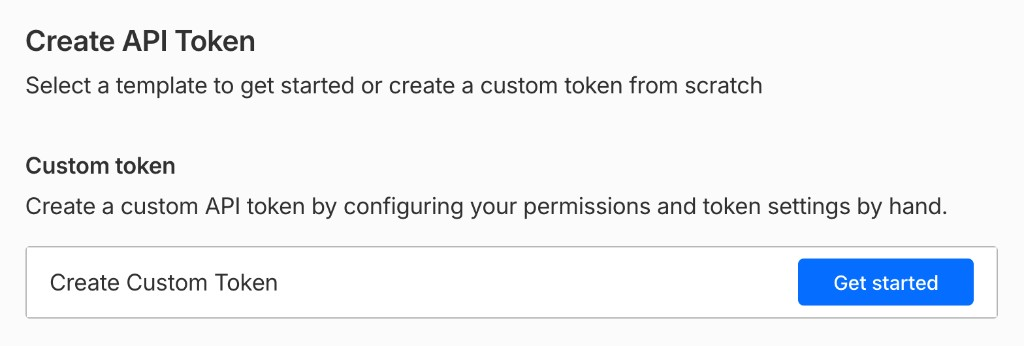
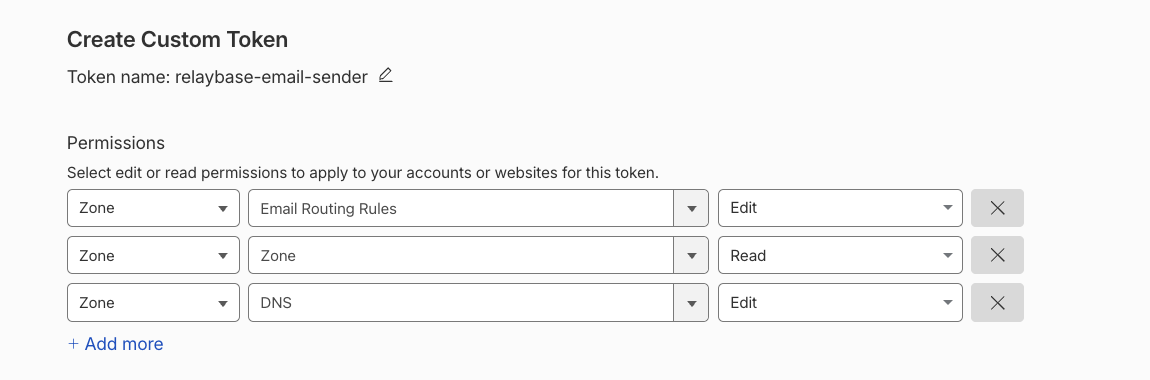
Improve email API setup guidance and token permission verification.
Clarify required Cloudflare token permissions in the enable dialog, probe Email Routing and DNS access during token verify, and surface clearer toasts when permissions are missing.

diff --git a/app/src/console/components/setup/EnableEmailApiDialog.tsx b/app/src/console/components/setup/EnableEmailApiDialog.tsx
@@ -37,22 +37,46 @@ function CreateCustomTokenGuide() {
         className="w-full rounded-md border border-border"
       />
       <p className="text-xs text-muted-foreground">
-        Open Create API Token and use{" "}
-        <span className="font-medium text-foreground">Custom token</span>. Click{" "}
-        <span className="font-medium text-foreground">Get started</span>, then
-        grant these permissions:
+        Open Create API Token and choose{" "}
+        <span className="font-medium text-foreground">Custom token</span> (click{" "}
+        <span className="font-medium text-foreground">Get started</span>). Then
+        grant these 3 required permissions:
       </p>
-      <ul className="list-disc space-y-1 pl-4 text-xs text-muted-foreground">
-        {CF_REQUIRED_TOKEN_PERMISSIONS.map((p) => (
-          <li key={p}>{p}</li>
-        ))}
-      </ul>
+      <div className="rounded-md border border-border/70 bg-muted/30 p-2.5">
+        <ul className="space-y-1.5 text-xs">
+          <li className="flex items-start gap-2">
+            <span className="mt-1 size-1.5 shrink-0 rounded-full bg-brand" />
+            <div>
+              <span className="font-medium text-foreground">Zone — Email Routing Rules — Edit</span>
+              <p className="text-[11px] text-muted-foreground">Creates and manages inbox routing rules for each address</p>
+            </div>
+          </li>
+          <li className="flex items-start gap-2">
+            <span className="mt-1 size-1.5 shrink-0 rounded-full bg-brand" />
+            <div>
+              <span className="font-medium text-foreground">Zone — Zone — Read</span>
+              <p className="text-[11px] text-muted-foreground">Looks up zone IDs for your domains</p>
+            </div>
+          </li>
+          <li className="flex items-start gap-2">
+            <span className="mt-1 size-1.5 shrink-0 rounded-full bg-brand" />
+            <div>
+              <span className="font-medium text-foreground">Zone — DNS — Edit</span>
+              <p className="text-[11px] text-muted-foreground">Resolves MX conflicts and configures DMARC records</p>
+            </div>
+          </li>
+        </ul>
+        <div className="mt-2.5 border-t border-border/50 pt-2 text-[11px] text-muted-foreground">
+          <span className="font-medium text-foreground">Zone Resources:</span> Set to{" "}
+          <span className="font-medium text-foreground">Include — All zones</span> (or include all domains you plan to use).
+        </div>
+      </div>
       <button
         type="button"
-        className="inline-flex items-center gap-1 text-xs text-brand hover:underline"
+        className="inline-flex items-center gap-1 text-xs font-medium text-brand hover:underline"
         onClick={() => void desktopOpenExternal(CF_API_TOKENS_URL)}
       >
-        Create token in Cloudflare
+        Open Cloudflare API Tokens
         <ExternalLink className="size-3" />
       </button>
     </div>
@@ -136,7 +160,7 @@ export function EnableEmailApiDialog({
       }
       if (result.cfApiTokenValid === false) {
         throw new Error(
-          "CF_API_TOKEN is set but Cloudflare rejected it. Check permissions (Email Routing Rules Edit, Zone Read, DNS Edit) and try again.",
+          "CF_API_TOKEN is set but Cloudflare rejected it. Please verify that your token has 'Zone → Email Routing Rules → Edit', 'Zone → Zone → Read', and 'Zone → DNS → Edit' permissions on your zones.",
         );
       }
       if (!mailApiReady(result)) {

diff --git a/app/src/console/components/setup/use-enable-email-api-dialog.tsx b/app/src/console/components/setup/use-enable-email-api-dialog.tsx
@@ -85,20 +85,15 @@ function useEnableEmailApiPasteBridge() {
   return pasteBridge;
 }
 
-export function isEmailApiNotConfiguredError(message: string): boolean {
-  const m = message.toLowerCase();
-  return (
-    m.includes("cloudflare email sending is not configured") ||
-    m.includes("cloudflare api is not configured") ||
-    m.includes("add a cf_api_token") ||
-    m.includes("cf_api_token secret") ||
-    m.includes("cf_account_id") ||
-    (m.includes("could not configure inbox") &&
-      (m.includes("not configured") ||
-        m.includes("api token") ||
-        m.includes("ops-dashboard")))
-  );
-}
+import {
+  isEmailApiNotConfiguredError,
+  isEmailRoutingPermissionError,
+} from "@/lib/cloudflare/email-api-errors";
+
+export {
+  isEmailApiNotConfiguredError,
+  isEmailRoutingPermissionError,
+};
 
 export function toastEmailApiAwareError(message: string) {
   if (isConsoleUnlockRequiredError(message)) {
@@ -117,8 +112,23 @@ export function toastEmailApiAwareError(message: string) {
     });
     return;
   }
+  if (isEmailRoutingPermissionError(message)) {
+    toast.error("Cloudflare API token lacks Email Routing permissions", {
+      description:
+        "Your Worker's CF_API_TOKEN needs Zone → Email Routing Rules → Edit and Zone → DNS → Edit permissions in Cloudflare.",
+      duration: Infinity,
+      closeButton: true,
+      action: {
+        label: "Update API token",
+        onClick: () => openEnableEmailApiDialog(),
+      },
+    });
+    return;
+  }
   if (isEmailApiNotConfiguredError(message)) {
-    toast.error(message, {
+    toast.error("Cloudflare API is not configured", {
+      description:
+        "Add a CF_API_TOKEN secret to your Worker to manage email routing and domain settings.",
       duration: Infinity,
       closeButton: true,
       action: {

diff --git a/app/src/lib/cloudflare/email-api-errors.test.ts b/app/src/lib/cloudflare/email-api-errors.test.ts
@@ -1,0 +1,38 @@
+import { describe, it } from "node:test";
+import assert from "node:assert/strict";
+
+import {
+  isEmailApiNotConfiguredError,
+  isEmailRoutingPermissionError,
+} from "./email-api-errors.ts";
+
+describe("isEmailRoutingPermissionError", () => {
+  it("matches Cloudflare 10000 Authentication error on email/routing", () => {
+    const err =
+      "Could not configure inbox for support@hapfam.com: Cloudflare API: [10000] Authentication error API: GET /zones/8ec1246f49978407113fbca7ef2be8f8/email/routing";
+    assert.equal(isEmailRoutingPermissionError(err), true);
+    assert.equal(isEmailApiNotConfiguredError(err), true);
+  });
+
+  it("matches structured cf_token_permission_missing code", () => {
+    const err = "Failed to update inbound routing (cf_token_permission_missing)";
+    assert.equal(isEmailRoutingPermissionError(err), true);
+    assert.equal(isEmailApiNotConfiguredError(err), true);
+  });
+
+  it("matches generic unconfigured email API errors in isEmailApiNotConfiguredError", () => {
+    assert.equal(
+      isEmailApiNotConfiguredError("Cloudflare API is not configured on this Worker"),
+      true,
+    );
+    assert.equal(
+      isEmailApiNotConfiguredError("add a cf_api_token secret"),
+      true,
+    );
+  });
+
+  it("does not match unrelated generic errors", () => {
+    assert.equal(isEmailRoutingPermissionError("Network timeout"), false);
+    assert.equal(isEmailApiNotConfiguredError("Network timeout"), false);
+  });
+});

diff --git a/app/src/lib/cloudflare/email-api-errors.ts b/app/src/lib/cloudflare/email-api-errors.ts
@@ -1,0 +1,34 @@
+export function isEmailRoutingPermissionError(message: string): boolean {
+  const m = message.toLowerCase();
+  return (
+    m.includes("cf_token_permission_missing") ||
+    m.includes("/email/routing") ||
+    m.includes("email routing rules") ||
+    (m.includes("could not configure inbox") &&
+      (m.includes("10000") ||
+        m.includes("authentication error") ||
+        m.includes("unauthorized") ||
+        m.includes("forbidden") ||
+        m.includes("permission"))) ||
+    ((m.includes("10000") ||
+      m.includes("authentication error") ||
+      m.includes("unauthorized") ||
+      m.includes("10101") ||
+      m.includes("10102") ||
+      m.includes("10103")) &&
+      (m.includes("email") || m.includes("routing") || m.includes("zone")))
+  );
+}
+
+export function isEmailApiNotConfiguredError(message: string): boolean {
+  const m = message.toLowerCase();
+  return (
+    isEmailRoutingPermissionError(message) ||
+    m.includes("cloudflare email sending is not configured") ||
+    m.includes("cloudflare api is not configured") ||
+    m.includes("add a cf_api_token") ||
+    m.includes("cf_api_token secret") ||
+    m.includes("cf_account_id") ||
+    m.includes("could not configure inbox")
+  );
+}

diff --git a/desktop/src-tauri/src/cloudflare/client.rs b/desktop/src-tauri/src/cloudflare/client.rs
@@ -103,15 +103,58 @@ pub async fn verify_token(
         checked.push("active");
         if !zones.is_empty() {
             checked.push("Zone Read");
-        }
-        // Email Routing Rules Edit and DNS Edit have no clean read-only probe;
-        // we confirm active status and Zone Read.
-        let msg = if !zones.is_empty() {
-            format!(
-                "Token verified ({}). Email Routing Rules Edit and DNS Edit could not be \
-                 probed — ensure they are granted in Cloudflare if you manage routing and DNS.",
-                checked.join(", ")
+            let first_zone = &zones[0].id;
+            let first_zone_name = &zones[0].name;
+
+            // 1. Probe Email Routing permissions
+            match cf_request(
+                &client,
+                reqwest::Method::GET,
+                &format!("/zones/{first_zone}/email/routing"),
+                None,
             )
+            .await
+            {
+                Ok(_) => {
+                    checked.push("Email Routing");
+                }
+                Err(err) => {
+                    return Ok(TokenVerifyResult {
+                        ok: false,
+                        account_id: account_id.to_string(),
+                        message: format!(
+                            "Token lacks Email Routing permissions on zone '{first_zone_name}'. Ensure Zone → Email Routing Rules → Edit permission is granted. ({err})"
+                        ),
+                    });
+                }
+            }
+
+            // 2. Probe DNS permissions
+            match cf_request(
+                &client,
+                reqwest::Method::GET,
+                &format!("/zones/{first_zone}/dns_records?per_page=1"),
+                None,
+            )
+            .await
+            {
+                Ok(_) => {
+                    checked.push("DNS");
+                }
+                Err(err) => {
+                    return Ok(TokenVerifyResult {
+                        ok: false,
+                        account_id: account_id.to_string(),
+                        message: format!(
+                            "Token lacks DNS permissions on zone '{first_zone_name}'. Ensure Zone → DNS → Edit permission is granted. ({err})"
+                        ),
+                    });
+                }
+            }
+        }
+
+        let msg = if !zones.is_empty() {
+            format!("Token verified ({}).", checked.join(", "))
         } else {
             "Token is active. No zones found in this account — ensure Zone → Zone → Read, \
              Zone → Email Routing Rules → Edit, and Zone → DNS → Edit are granted."
